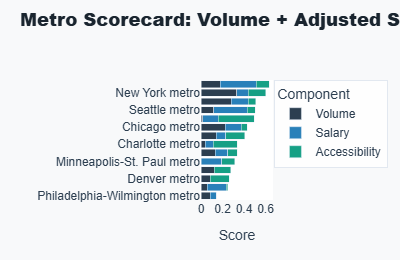
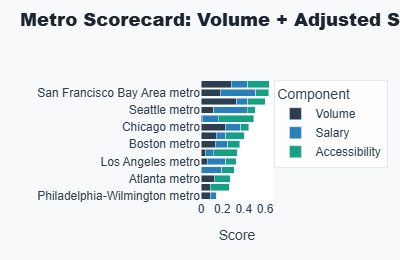
feat: refresh Metro Scorecard and Executive Summary charts from updated notebook
Regenerate charts 48_0 (Metro Scorecard: Volume + Adjusted Salary +
Accessibility) and 50_0 (Executive Summary Dashboard) from the
updated analysis notebook; both charts and their thumbnails reflect
the latest run's numbers.

diff --git a/interactive-dashboard/charts/48_0.html b/interactive-dashboard/charts/48_0.html
@@ -6,7 +6,7 @@
 </head>
 <body>
     <div style="height:630px; width:100%;">                        <script>window.PlotlyConfig = {MathJaxConfig: 'local'};</script>
-        <script charset="utf-8" src="../vendor/plotly.min.js"></script>                <div id="7b2fc753-b557-42bb-ac89-390de564c8a8" class="plotly-graph-div" style="height:100%; width:100%;"></div>            <script>                window.PLOTLYENV=window.PLOTLYENV || {};                                if (document.getElementById("7b2fc753-b557-42bb-ac89-390de564c8a8")) {                    Plotly.newPlot(                        "7b2fc753-b557-42bb-ac89-390de564c8a8",                        [{"hovertemplate":"Component=Volume\u003cbr\u003eScore=%{x}\u003cbr\u003e=%{y}\u003cextra\u003e\u003c\u002fextra\u003e","legendgroup":"Volume","marker":{"color":"#2c3e50","pattern":{"shape":""}},"name":"Volume","orientation":"h","showlegend":true,"textposition":"auto","x":{"dtype":"f8","bdata":"RNv\u002fFHsnxz9VVVVVVVXVP1E7M672ENI\u002fUVqLucJEvj90ftUytJCMPwyxWh7S58w\u002fvW8QZpxswj9\u002fhn0XAMujP+OC+rZb2MA\u002fAAAAAAAAAAB1O2bR7gHAP\u002ffn6eGmbbY\u002fJb7S\u002f5jArj\u002f35+nhpm22Pw=="},"xaxis":"x","y":["San Francisco Bay Area metro","New York metro","Washington DC metro","Seattle metro","Austin metro","Chicago metro","Dallas-Fort Worth metro","Charlotte metro","Boston metro","Minneapolis-St. Paul metro","Atlanta metro","Denver metro","Los Angeles metro","Philadelphia-Wilmington metro"],"yaxis":"y","type":"bar"},{"hovertemplate":"Component=Salary\u003cbr\u003eScore=%{x}\u003cbr\u003e=%{y}\u003cextra\u003e\u003c\u002fextra\u003e","legendgroup":"Salary","marker":{"color":"#2980b9","pattern":{"shape":""}},"name":"Salary","orientation":"h","showlegend":true,"textposition":"auto","x":{"dtype":"f8","bdata":"VVVVVVVV1T+Hni3qc766P\u002fuIwx7TCcQ\u002fGNlAf1MX1D8HOnewtN7CPzt3ouWAtcI\u002fo0VIsdBLtj+lZA1yuI2zP68KSpG8+L0\u002ftLscKzbGyD8AAAAAAAAAAOkG0YwFuzs\u002fUA1a9jMzxj+XdWG9yCSsPw=="},"xaxis":"x","y":["San Francisco Bay Area metro","New York metro","Washington DC metro","Seattle metro","Austin metro","Chicago metro","Dallas-Fort Worth metro","Charlotte metro","Boston metro","Minneapolis-St. Paul metro","Atlanta metro","Denver metro","Los Angeles metro","Philadelphia-Wilmington metro"],"yaxis":"y","type":"bar"},{"hovertemplate":"Component=Accessibility\u003cbr\u003eScore=%{x}\u003cbr\u003e=%{y}\u003cextra\u003e\u003c\u002fextra\u003e","legendgroup":"Accessibility","marker":{"color":"#16a085","pattern":{"shape":""}},"name":"Accessibility","orientation":"h","showlegend":true,"textposition":"auto","x":{"dtype":"f8","bdata":"3\u002fIt3\u002fItvz8eaJwnM9rEP9EgDdIgDbI\u002f8i3f8i3fsj9VVVVVVVXVP7\u002flW77lW64\u002foNkj24o3xj\u002fV7sXoKXfMPwdpkAZpkLY\u002f\u002feqv\u002fuqvvj8LVdaRgTrDPwdpkAZpkMY\u002fHc7hHM7hjD8AAAAAAAAAAA=="},"xaxis":"x","y":["San Francisco Bay Area metro","New York metro","Washington DC metro","Seattle metro","Austin metro","Chicago metro","Dallas-Fort Worth metro","Charlotte metro","Boston metro","Minneapolis-St. Paul metro","Atlanta metro","Denver metro","Los Angeles metro","Philadelphia-Wilmington metro"],"yaxis":"y","type":"bar"}],                        {"template":{"data":{"histogram2dcontour":[{"type":"histogram2dcontour","colorbar":{"outlinewidth":0,"ticks":""},"colorscale":[[0.0,"#0d0887"],[0.1111111111111111,"#46039f"],[0.2222222222222222,"#7201a8"],[0.3333333333333333,"#9c179e"],[0.4444444444444444,"#bd3786"],[0.5555555555555556,"#d8576b"],[0.6666666666666666,"#ed7953"],[0.7777777777777778,"#fb9f3a"],[0.8888888888888888,"#fdca26"],[1.0,"#f0f921"]]}],"choropleth":[{"type":"choropleth","colorbar":{"outlinewidth":0,"ticks":""}}],"histogram2d":[{"type":"histogram2d","colorbar":{"outlinewidth":0,"ticks":""},"colorscale":[[0.0,"#0d0887"],[0.1111111111111111,"#46039f"],[0.2222222222222222,"#7201a8"],[0.3333333333333333,"#9c179e"],[0.4444444444444444,"#bd3786"],[0.5555555555555556,"#d8576b"],[0.6666666666666666,"#ed7953"],[0.7777777777777778,"#fb9f3a"],[0.8888888888888888,"#fdca26"],[1.0,"#f0f921"]]}],"heatmap":[{"type":"heatmap","colorbar":{"outlinewidth":0,"ticks":""},"colorscale":[[0.0,"#0d0887"],[0.1111111111111111,"#46039f"],[0.2222222222222222,"#7201a8"],[0.3333333333333333,"#9c179e"],[0.4444444444444444,"#bd3786"],[0.5555555555555556,"#d8576b"],[0.6666666666666666,"#ed7953"],[0.7777777777777778,"#fb9f3a"],[0.8888888888888888,"#fdca26"],[1.0,"#f0f921"]]}],"contourcarpet":[{"type":"contourcarpet","colorbar":{"outlinewidth":0,"ticks":""}}],"contour":[{"type":"contour","colorbar":{"outlinewidth":0,"ticks":""},"colorscale":[[0.0,"#0d0887"],[0.1111111111111111,"#46039f"],[0.2222222222222222,"#7201a8"],[0.3333333333333333,"#9c179e"],[0.4444444444444444,"#bd3786"],[0.5555555555555556,"#d8576b"],[0.6666666666666666,"#ed7953"],[0.7777777777777778,"#fb9f3a"],[0.8888888888888888,"#fdca26"],[1.0,"#f0f921"]]}],"surface":[{"type":"surface","colorbar":{"outlinewidth":0,"ticks":""},"colorscale":[[0.0,"#0d0887"],[0.1111111111111111,"#46039f"],[0.2222222222222222,"#7201a8"],[0.3333333333333333,"#9c179e"],[0.4444444444444444,"#bd3786"],[0.5555555555555556,"#d8576b"],[0.6666666666666666,"#ed7953"],[0.7777777777777778,"#fb9f3a"],[0.8888888888888888,"#fdca26"],[1.0,"#f0f921"]]}],"mesh3d":[{"type":"mesh3d","colorbar":{"outlinewidth":0,"ticks":""}}],"scatter":[{"fillpattern":{"fillmode":"overlay","size":10,"solidity":0.2},"type":"scatter"}],"parcoords":[{"type":"parcoords","line":{"colorbar":{"outlinewidth":0,"ticks":""}}}],"scatterpolargl":[{"type":"scatterpolargl","marker":{"colorbar":{"outlinewidth":0,"ticks":""}}}],"bar":[{"error_x":{"color":"#2a3f5f"},"error_y":{"color":"#2a3f5f"},"marker":{"line":{"color":"#E5ECF6","width":0.5},"pattern":{"fillmode":"overlay","size":10,"solidity":0.2}},"type":"bar"}],"scattergeo":[{"type":"scattergeo","marker":{"colorbar":{"outlinewidth":0,"ticks":""}}}],"scatterpolar":[{"type":"scatterpolar","marker":{"colorbar":{"outlinewidth":0,"ticks":""}}}],"histogram":[{"marker":{"pattern":{"fillmode":"overlay","size":10,"solidity":0.2}},"type":"histogram"}],"scattergl":[{"type":"scattergl","marker":{"colorbar":{"outlinewidth":0,"ticks":""}}}],"scatter3d":[{"type":"scatter3d","line":{"colorbar":{"outlinewidth":0,"ticks":""}},"marker":{"colorbar":{"outlinewidth":0,"ticks":""}}}],"scattermap":[{"type":"scattermap","marker":{"colorbar":{"outlinewidth":0,"ticks":""}}}],"scatterternary":[{"type":"scatterternary","marker":{"colorbar":{"outlinewidth":0,"ticks":""}}}],"scattercarpet":[{"type":"scattercarpet","marker":{"colorbar":{"outlinewidth":0,"ticks":""}}}],"carpet":[{"aaxis":{"endlinecolor":"#2a3f5f","gridcolor":"white","linecolor":"white","minorgridcolor":"white","startlinecolor":"#2a3f5f"},"baxis":{"endlinecolor":"#2a3f5f","gridcolor":"white","linecolor":"white","minorgridcolor":"white","startlinecolor":"#2a3f5f"},"type":"carpet"}],"table":[{"cells":{"fill":{"color":"#EBF0F8"},"line":{"color":"white"}},"header":{"fill":{"color":"#C8D4E3"},"line":{"color":"white"}},"type":"table"}],"barpolar":[{"marker":{"line":{"color":"#E5ECF6","width":0.5},"pattern":{"fillmode":"overlay","size":10,"solidity":0.2}},"type":"barpolar"}],"pie":[{"automargin":true,"type":"pie"}]},"layout":{"autotypenumbers":"strict","colorway":["#636efa","#EF553B","#00cc96","#ab63fa","#FFA15A","#19d3f3","#FF6692","#B6E880","#FF97FF","#FECB52"],"font":{"color":"#2a3f5f"},"hovermode":"closest","hoverlabel":{"align":"left"},"paper_bgcolor":"white","plot_bgcolor":"#E5ECF6","polar":{"bgcolor":"#E5ECF6","angularaxis":{"gridcolor":"white","linecolor":"white","ticks":""},"radialaxis":{"gridcolor":"white","linecolor":"white","ticks":""}},"ternary":{"bgcolor":"#E5ECF6","aaxis":{"gridcolor":"white","linecolor":"white","ticks":""},"baxis":{"gridcolor":"white","linecolor":"white","ticks":""},"caxis":{"gridcolor":"white","linecolor":"white","ticks":""}},"coloraxis":{"colorbar":{"outlinewidth":0,"ticks":""}},"colorscale":{"sequential":[[0.0,"#0d0887"],[0.1111111111111111,"#46039f"],[0.2222222222222222,"#7201a8"],[0.3333333333333333,"#9c179e"],[0.4444444444444444,"#bd3786"],[0.5555555555555556,"#d8576b"],[0.6666666666666666,"#ed7953"],[0.7777777777777778,"#fb9f3a"],[0.8888888888888888,"#fdca26"],[1.0,"#f0f921"]],"sequentialminus":[[0.0,"#0d0887"],[0.1111111111111111,"#46039f"],[0.2222222222222222,"#7201a8"],[0.3333333333333333,"#9c179e"],[0.4444444444444444,"#bd3786"],[0.5555555555555556,"#d8576b"],[0.6666666666666666,"#ed7953"],[0.7777777777777778,"#fb9f3a"],[0.8888888888888888,"#fdca26"],[1.0,"#f0f921"]],"diverging":[[0,"#8e0152"],[0.1,"#c51b7d"],[0.2,"#de77ae"],[0.3,"#f1b6da"],[0.4,"#fde0ef"],[0.5,"#f7f7f7"],[0.6,"#e6f5d0"],[0.7,"#b8e186"],[0.8,"#7fbc41"],[0.9,"#4d9221"],[1,"#276419"]]},"xaxis":{"gridcolor":"white","linecolor":"white","ticks":"","title":{"standoff":15},"zerolinecolor":"white","automargin":true,"zerolinewidth":2},"yaxis":{"gridcolor":"white","linecolor":"white","ticks":"","title":{"standoff":15},"zerolinecolor":"white","automargin":true,"zerolinewidth":2},"scene":{"xaxis":{"backgroundcolor":"#E5ECF6","gridcolor":"white","linecolor":"white","showbackground":true,"ticks":"","zerolinecolor":"white","gridwidth":2},"yaxis":{"backgroundcolor":"#E5ECF6","gridcolor":"white","linecolor":"white","showbackground":true,"ticks":"","zerolinecolor":"white","gridwidth":2},"zaxis":{"backgroundcolor":"#E5ECF6","gridcolor":"white","linecolor":"white","showbackground":true,"ticks":"","zerolinecolor":"white","gridwidth":2}},"shapedefaults":{"line":{"color":"#2a3f5f"}},"annotationdefaults":{"arrowcolor":"#2a3f5f","arrowhead":0,"arrowwidth":1},"geo":{"bgcolor":"white","landcolor":"#E5ECF6","subunitcolor":"white","showland":true,"showlakes":true,"lakecolor":"white"},"title":{"x":0.05}}},"xaxis":{"anchor":"y","domain":[0.0,1.0],"title":{"text":"Score"}},"yaxis":{"anchor":"x","domain":[0.0,1.0],"title":{"text":""},"categoryorder":"total ascending"},"legend":{"title":{"text":"Component"},"tracegroupgap":0,"bgcolor":"rgba(255,255,255,0.8)","bordercolor":"#e2e8f0","borderwidth":1},"title":{"text":"Metro Scorecard: Volume + Adjusted Salary + Accessibility","font":{"size":18,"family":"Arial Black","color":"#1a252f"},"x":0.05,"y":0.95},"barmode":"stack","font":{"family":"Arial, sans-serif","size":12,"color":"#2c3e50"},"margin":{"l":60,"r":40,"t":80,"b":60},"paper_bgcolor":"#f8f9fa","plot_bgcolor":"#ffffff","height":630},                        {"responsive": true}                    ).then(function(){
+        <script charset="utf-8" src="../vendor/plotly.min.js"></script>                <div id="ea9ac8d9-d5cd-4ed9-ab40-63497bb9d6dc" class="plotly-graph-div" style="height:100%; width:100%;"></div>            <script>                window.PLOTLYENV=window.PLOTLYENV || {};                                if (document.getElementById("ea9ac8d9-d5cd-4ed9-ab40-63497bb9d6dc")) {                    Plotly.newPlot(                        "ea9ac8d9-d5cd-4ed9-ab40-63497bb9d6dc",                        [{"hovertemplate":"Component=Volume\u003cbr\u003eScore=%{x}\u003cbr\u003e=%{y}\u003cextra\u003e\u003c\u002fextra\u003e","legendgroup":"Volume","marker":{"color":"#2c3e50","pattern":{"shape":""}},"name":"Volume","orientation":"h","showlegend":true,"textposition":"auto","x":{"dtype":"f8","bdata":"UTszrvYQ0j9E2\u002f8UeyfHP1VVVVVVVdU\u002fUVqLucJEvj90ftUytJCMPwyxWh7S58w\u002fvW8QZpxswj\u002fjgvq2W9jAP3+GfRcAy6M\u002fJb7S\u002f5jArj8AAAAAAAAAAHU7ZtHuAcA\u002f9+fp4aZttj\u002f35+nhpm22Pw=="},"xaxis":"x","y":["Washington DC metro","San Francisco Bay Area metro","New York metro","Seattle metro","Austin metro","Chicago metro","Dallas-Fort Worth metro","Boston metro","Charlotte metro","Los Angeles metro","Minneapolis-St. Paul metro","Atlanta metro","Denver metro","Philadelphia-Wilmington metro"],"yaxis":"y","type":"bar"},{"hovertemplate":"Component=Salary\u003cbr\u003eScore=%{x}\u003cbr\u003e=%{y}\u003cextra\u003e\u003c\u002fextra\u003e","legendgroup":"Salary","marker":{"color":"#2980b9","pattern":{"shape":""}},"name":"Salary","orientation":"h","showlegend":true,"textposition":"auto","x":{"dtype":"f8","bdata":"+4jDHtMJxD9VVVVVVVXVP4eeLepzvro\u002fGNlAf1MX1D8HOnewtN7CPzt3ouWAtcI\u002fo0VIsdBLtj+vCkqRvPi9P6VkDXK4jbM\u002fUA1a9jMzxj+0uxwrNsbIPwAAAAAAAAAA6QbRjAW7Oz+XdWG9yCSsPw=="},"xaxis":"x","y":["Washington DC metro","San Francisco Bay Area metro","New York metro","Seattle metro","Austin metro","Chicago metro","Dallas-Fort Worth metro","Boston metro","Charlotte metro","Los Angeles metro","Minneapolis-St. Paul metro","Atlanta metro","Denver metro","Philadelphia-Wilmington metro"],"yaxis":"y","type":"bar"},{"hovertemplate":"Component=Accessibility\u003cbr\u003eScore=%{x}\u003cbr\u003e=%{y}\u003cextra\u003e\u003c\u002fextra\u003e","legendgroup":"Accessibility","marker":{"color":"#16a085","pattern":{"shape":""}},"name":"Accessibility","orientation":"h","showlegend":true,"textposition":"auto","x":{"dtype":"f8","bdata":"mZzJmZzJyT\u002ff8i3f8i2\u002fPx5onCcz2sQ\u002f8i3f8i3fsj9VVVVVVVXVP\u002fIt3\u002fIt37I\u002foNkj24o3xj9VVVVVVVW9P9Xuxegpd8w\u002fWZRFWZRFuT\u002f96q\u002f+6q++PwtV1pGBOsM\u002fB2mQBmmQxj8AAAAAAAAAAA=="},"xaxis":"x","y":["Washington DC metro","San Francisco Bay Area metro","New York metro","Seattle metro","Austin metro","Chicago metro","Dallas-Fort Worth metro","Boston metro","Charlotte metro","Los Angeles metro","Minneapolis-St. Paul metro","Atlanta metro","Denver metro","Philadelphia-Wilmington metro"],"yaxis":"y","type":"bar"}],                        {"template":{"data":{"histogram2dcontour":[{"type":"histogram2dcontour","colorbar":{"outlinewidth":0,"ticks":""},"colorscale":[[0.0,"#0d0887"],[0.1111111111111111,"#46039f"],[0.2222222222222222,"#7201a8"],[0.3333333333333333,"#9c179e"],[0.4444444444444444,"#bd3786"],[0.5555555555555556,"#d8576b"],[0.6666666666666666,"#ed7953"],[0.7777777777777778,"#fb9f3a"],[0.8888888888888888,"#fdca26"],[1.0,"#f0f921"]]}],"choropleth":[{"type":"choropleth","colorbar":{"outlinewidth":0,"ticks":""}}],"histogram2d":[{"type":"histogram2d","colorbar":{"outlinewidth":0,"ticks":""},"colorscale":[[0.0,"#0d0887"],[0.1111111111111111,"#46039f"],[0.2222222222222222,"#7201a8"],[0.3333333333333333,"#9c179e"],[0.4444444444444444,"#bd3786"],[0.5555555555555556,"#d8576b"],[0.6666666666666666,"#ed7953"],[0.7777777777777778,"#fb9f3a"],[0.8888888888888888,"#fdca26"],[1.0,"#f0f921"]]}],"heatmap":[{"type":"heatmap","colorbar":{"outlinewidth":0,"ticks":""},"colorscale":[[0.0,"#0d0887"],[0.1111111111111111,"#46039f"],[0.2222222222222222,"#7201a8"],[0.3333333333333333,"#9c179e"],[0.4444444444444444,"#bd3786"],[0.5555555555555556,"#d8576b"],[0.6666666666666666,"#ed7953"],[0.7777777777777778,"#fb9f3a"],[0.8888888888888888,"#fdca26"],[1.0,"#f0f921"]]}],"contourcarpet":[{"type":"contourcarpet","colorbar":{"outlinewidth":0,"ticks":""}}],"contour":[{"type":"contour","colorbar":{"outlinewidth":0,"ticks":""},"colorscale":[[0.0,"#0d0887"],[0.1111111111111111,"#46039f"],[0.2222222222222222,"#7201a8"],[0.3333333333333333,"#9c179e"],[0.4444444444444444,"#bd3786"],[0.5555555555555556,"#d8576b"],[0.6666666666666666,"#ed7953"],[0.7777777777777778,"#fb9f3a"],[0.8888888888888888,"#fdca26"],[1.0,"#f0f921"]]}],"surface":[{"type":"surface","colorbar":{"outlinewidth":0,"ticks":""},"colorscale":[[0.0,"#0d0887"],[0.1111111111111111,"#46039f"],[0.2222222222222222,"#7201a8"],[0.3333333333333333,"#9c179e"],[0.4444444444444444,"#bd3786"],[0.5555555555555556,"#d8576b"],[0.6666666666666666,"#ed7953"],[0.7777777777777778,"#fb9f3a"],[0.8888888888888888,"#fdca26"],[1.0,"#f0f921"]]}],"mesh3d":[{"type":"mesh3d","colorbar":{"outlinewidth":0,"ticks":""}}],"scatter":[{"fillpattern":{"fillmode":"overlay","size":10,"solidity":0.2},"type":"scatter"}],"parcoords":[{"type":"parcoords","line":{"colorbar":{"outlinewidth":0,"ticks":""}}}],"scatterpolargl":[{"type":"scatterpolargl","marker":{"colorbar":{"outlinewidth":0,"ticks":""}}}],"bar":[{"error_x":{"color":"#2a3f5f"},"error_y":{"color":"#2a3f5f"},"marker":{"line":{"color":"#E5ECF6","width":0.5},"pattern":{"fillmode":"overlay","size":10,"solidity":0.2}},"type":"bar"}],"scattergeo":[{"type":"scattergeo","marker":{"colorbar":{"outlinewidth":0,"ticks":""}}}],"scatterpolar":[{"type":"scatterpolar","marker":{"colorbar":{"outlinewidth":0,"ticks":""}}}],"histogram":[{"marker":{"pattern":{"fillmode":"overlay","size":10,"solidity":0.2}},"type":"histogram"}],"scattergl":[{"type":"scattergl","marker":{"colorbar":{"outlinewidth":0,"ticks":""}}}],"scatter3d":[{"type":"scatter3d","line":{"colorbar":{"outlinewidth":0,"ticks":""}},"marker":{"colorbar":{"outlinewidth":0,"ticks":""}}}],"scattermap":[{"type":"scattermap","marker":{"colorbar":{"outlinewidth":0,"ticks":""}}}],"scatterternary":[{"type":"scatterternary","marker":{"colorbar":{"outlinewidth":0,"ticks":""}}}],"scattercarpet":[{"type":"scattercarpet","marker":{"colorbar":{"outlinewidth":0,"ticks":""}}}],"carpet":[{"aaxis":{"endlinecolor":"#2a3f5f","gridcolor":"white","linecolor":"white","minorgridcolor":"white","startlinecolor":"#2a3f5f"},"baxis":{"endlinecolor":"#2a3f5f","gridcolor":"white","linecolor":"white","minorgridcolor":"white","startlinecolor":"#2a3f5f"},"type":"carpet"}],"table":[{"cells":{"fill":{"color":"#EBF0F8"},"line":{"color":"white"}},"header":{"fill":{"color":"#C8D4E3"},"line":{"color":"white"}},"type":"table"}],"barpolar":[{"marker":{"line":{"color":"#E5ECF6","width":0.5},"pattern":{"fillmode":"overlay","size":10,"solidity":0.2}},"type":"barpolar"}],"pie":[{"automargin":true,"type":"pie"}]},"layout":{"autotypenumbers":"strict","colorway":["#636efa","#EF553B","#00cc96","#ab63fa","#FFA15A","#19d3f3","#FF6692","#B6E880","#FF97FF","#FECB52"],"font":{"color":"#2a3f5f"},"hovermode":"closest","hoverlabel":{"align":"left"},"paper_bgcolor":"white","plot_bgcolor":"#E5ECF6","polar":{"bgcolor":"#E5ECF6","angularaxis":{"gridcolor":"white","linecolor":"white","ticks":""},"radialaxis":{"gridcolor":"white","linecolor":"white","ticks":""}},"ternary":{"bgcolor":"#E5ECF6","aaxis":{"gridcolor":"white","linecolor":"white","ticks":""},"baxis":{"gridcolor":"white","linecolor":"white","ticks":""},"caxis":{"gridcolor":"white","linecolor":"white","ticks":""}},"coloraxis":{"colorbar":{"outlinewidth":0,"ticks":""}},"colorscale":{"sequential":[[0.0,"#0d0887"],[0.1111111111111111,"#46039f"],[0.2222222222222222,"#7201a8"],[0.3333333333333333,"#9c179e"],[0.4444444444444444,"#bd3786"],[0.5555555555555556,"#d8576b"],[0.6666666666666666,"#ed7953"],[0.7777777777777778,"#fb9f3a"],[0.8888888888888888,"#fdca26"],[1.0,"#f0f921"]],"sequentialminus":[[0.0,"#0d0887"],[0.1111111111111111,"#46039f"],[0.2222222222222222,"#7201a8"],[0.3333333333333333,"#9c179e"],[0.4444444444444444,"#bd3786"],[0.5555555555555556,"#d8576b"],[0.6666666666666666,"#ed7953"],[0.7777777777777778,"#fb9f3a"],[0.8888888888888888,"#fdca26"],[1.0,"#f0f921"]],"diverging":[[0,"#8e0152"],[0.1,"#c51b7d"],[0.2,"#de77ae"],[0.3,"#f1b6da"],[0.4,"#fde0ef"],[0.5,"#f7f7f7"],[0.6,"#e6f5d0"],[0.7,"#b8e186"],[0.8,"#7fbc41"],[0.9,"#4d9221"],[1,"#276419"]]},"xaxis":{"gridcolor":"white","linecolor":"white","ticks":"","title":{"standoff":15},"zerolinecolor":"white","automargin":true,"zerolinewidth":2},"yaxis":{"gridcolor":"white","linecolor":"white","ticks":"","title":{"standoff":15},"zerolinecolor":"white","automargin":true,"zerolinewidth":2},"scene":{"xaxis":{"backgroundcolor":"#E5ECF6","gridcolor":"white","linecolor":"white","showbackground":true,"ticks":"","zerolinecolor":"white","gridwidth":2},"yaxis":{"backgroundcolor":"#E5ECF6","gridcolor":"white","linecolor":"white","showbackground":true,"ticks":"","zerolinecolor":"white","gridwidth":2},"zaxis":{"backgroundcolor":"#E5ECF6","gridcolor":"white","linecolor":"white","showbackground":true,"ticks":"","zerolinecolor":"white","gridwidth":2}},"shapedefaults":{"line":{"color":"#2a3f5f"}},"annotationdefaults":{"arrowcolor":"#2a3f5f","arrowhead":0,"arrowwidth":1},"geo":{"bgcolor":"white","landcolor":"#E5ECF6","subunitcolor":"white","showland":true,"showlakes":true,"lakecolor":"white"},"title":{"x":0.05}}},"xaxis":{"anchor":"y","domain":[0.0,1.0],"title":{"text":"Score"}},"yaxis":{"anchor":"x","domain":[0.0,1.0],"title":{"text":""},"categoryorder":"total ascending"},"legend":{"title":{"text":"Component"},"tracegroupgap":0,"bgcolor":"rgba(255,255,255,0.8)","bordercolor":"#e2e8f0","borderwidth":1},"title":{"text":"Metro Scorecard: Volume + Adjusted Salary + Accessibility","font":{"size":18,"family":"Arial Black","color":"#1a252f"},"x":0.05,"y":0.95},"barmode":"stack","font":{"family":"Arial, sans-serif","size":12,"color":"#2c3e50"},"margin":{"l":60,"r":40,"t":80,"b":60},"paper_bgcolor":"#f8f9fa","plot_bgcolor":"#ffffff","height":630},                        {"responsive": true}                    ).then(function(){
                             document.addEventListener('keydown', function(e) {  if (e.key === 'ArrowRight' || e.key === 'ArrowLeft' || e.key === 'Escape') {    parent.postMessage({type: 'presenter-key', key: e.key}, '*');  }});
                         })                };            </script>        </div>
 </body>

diff --git a/interactive-dashboard/charts/50_0.html b/interactive-dashboard/charts/50_0.html
@@ -6,7 +6,7 @@
 </head>
 <body>
     <div style="height:600px; width:100%;">                        <script>window.PlotlyConfig = {MathJaxConfig: 'local'};</script>
-        <script charset="utf-8" src="../vendor/plotly.min.js"></script>                <div id="ccbe76d6-7482-4df8-87b1-71e7d45fa412" class="plotly-graph-div" style="height:100%; width:100%;"></div>            <script>                window.PLOTLYENV=window.PLOTLYENV || {};                                if (document.getElementById("ccbe76d6-7482-4df8-87b1-71e7d45fa412")) {                    Plotly.newPlot(                        "ccbe76d6-7482-4df8-87b1-71e7d45fa412",                        [{"mode":"number","title":{"text":"Postings Analyzed"},"value":753,"type":"indicator","domain":{"x":[0.0,0.45],"y":[0.575,1.0]}},{"mode":"number","number":{"suffix":"%","valueformat":".0f"},"title":{"text":"Entry-Accessible"},"value":37.45019920318725,"type":"indicator","domain":{"x":[0.55,1.0],"y":[0.575,1.0]}},{"mode":"number","number":{"prefix":"$","valueformat":",.0f"},"title":{"text":"Median Salary"},"value":117500.0,"type":"indicator","domain":{"x":[0.0,0.45],"y":[0.0,0.425]}},{"mode":"number","number":{"prefix":"$","valueformat":",.0f"},"title":{"text":"#1 Metro Adj. Salary (San Francisco Bay Area)"},"value":166636.56069364163,"type":"indicator","domain":{"x":[0.55,1.0],"y":[0.0,0.425]}}],                        {"template":{"data":{"histogram2dcontour":[{"type":"histogram2dcontour","colorbar":{"outlinewidth":0,"ticks":""},"colorscale":[[0.0,"#0d0887"],[0.1111111111111111,"#46039f"],[0.2222222222222222,"#7201a8"],[0.3333333333333333,"#9c179e"],[0.4444444444444444,"#bd3786"],[0.5555555555555556,"#d8576b"],[0.6666666666666666,"#ed7953"],[0.7777777777777778,"#fb9f3a"],[0.8888888888888888,"#fdca26"],[1.0,"#f0f921"]]}],"choropleth":[{"type":"choropleth","colorbar":{"outlinewidth":0,"ticks":""}}],"histogram2d":[{"type":"histogram2d","colorbar":{"outlinewidth":0,"ticks":""},"colorscale":[[0.0,"#0d0887"],[0.1111111111111111,"#46039f"],[0.2222222222222222,"#7201a8"],[0.3333333333333333,"#9c179e"],[0.4444444444444444,"#bd3786"],[0.5555555555555556,"#d8576b"],[0.6666666666666666,"#ed7953"],[0.7777777777777778,"#fb9f3a"],[0.8888888888888888,"#fdca26"],[1.0,"#f0f921"]]}],"heatmap":[{"type":"heatmap","colorbar":{"outlinewidth":0,"ticks":""},"colorscale":[[0.0,"#0d0887"],[0.1111111111111111,"#46039f"],[0.2222222222222222,"#7201a8"],[0.3333333333333333,"#9c179e"],[0.4444444444444444,"#bd3786"],[0.5555555555555556,"#d8576b"],[0.6666666666666666,"#ed7953"],[0.7777777777777778,"#fb9f3a"],[0.8888888888888888,"#fdca26"],[1.0,"#f0f921"]]}],"contourcarpet":[{"type":"contourcarpet","colorbar":{"outlinewidth":0,"ticks":""}}],"contour":[{"type":"contour","colorbar":{"outlinewidth":0,"ticks":""},"colorscale":[[0.0,"#0d0887"],[0.1111111111111111,"#46039f"],[0.2222222222222222,"#7201a8"],[0.3333333333333333,"#9c179e"],[0.4444444444444444,"#bd3786"],[0.5555555555555556,"#d8576b"],[0.6666666666666666,"#ed7953"],[0.7777777777777778,"#fb9f3a"],[0.8888888888888888,"#fdca26"],[1.0,"#f0f921"]]}],"surface":[{"type":"surface","colorbar":{"outlinewidth":0,"ticks":""},"colorscale":[[0.0,"#0d0887"],[0.1111111111111111,"#46039f"],[0.2222222222222222,"#7201a8"],[0.3333333333333333,"#9c179e"],[0.4444444444444444,"#bd3786"],[0.5555555555555556,"#d8576b"],[0.6666666666666666,"#ed7953"],[0.7777777777777778,"#fb9f3a"],[0.8888888888888888,"#fdca26"],[1.0,"#f0f921"]]}],"mesh3d":[{"type":"mesh3d","colorbar":{"outlinewidth":0,"ticks":""}}],"scatter":[{"fillpattern":{"fillmode":"overlay","size":10,"solidity":0.2},"type":"scatter"}],"parcoords":[{"type":"parcoords","line":{"colorbar":{"outlinewidth":0,"ticks":""}}}],"scatterpolargl":[{"type":"scatterpolargl","marker":{"colorbar":{"outlinewidth":0,"ticks":""}}}],"bar":[{"error_x":{"color":"#2a3f5f"},"error_y":{"color":"#2a3f5f"},"marker":{"line":{"color":"#E5ECF6","width":0.5},"pattern":{"fillmode":"overlay","size":10,"solidity":0.2}},"type":"bar"}],"scattergeo":[{"type":"scattergeo","marker":{"colorbar":{"outlinewidth":0,"ticks":""}}}],"scatterpolar":[{"type":"scatterpolar","marker":{"colorbar":{"outlinewidth":0,"ticks":""}}}],"histogram":[{"marker":{"pattern":{"fillmode":"overlay","size":10,"solidity":0.2}},"type":"histogram"}],"scattergl":[{"type":"scattergl","marker":{"colorbar":{"outlinewidth":0,"ticks":""}}}],"scatter3d":[{"type":"scatter3d","line":{"colorbar":{"outlinewidth":0,"ticks":""}},"marker":{"colorbar":{"outlinewidth":0,"ticks":""}}}],"scattermap":[{"type":"scattermap","marker":{"colorbar":{"outlinewidth":0,"ticks":""}}}],"scatterternary":[{"type":"scatterternary","marker":{"colorbar":{"outlinewidth":0,"ticks":""}}}],"scattercarpet":[{"type":"scattercarpet","marker":{"colorbar":{"outlinewidth":0,"ticks":""}}}],"carpet":[{"aaxis":{"endlinecolor":"#2a3f5f","gridcolor":"white","linecolor":"white","minorgridcolor":"white","startlinecolor":"#2a3f5f"},"baxis":{"endlinecolor":"#2a3f5f","gridcolor":"white","linecolor":"white","minorgridcolor":"white","startlinecolor":"#2a3f5f"},"type":"carpet"}],"table":[{"cells":{"fill":{"color":"#EBF0F8"},"line":{"color":"white"}},"header":{"fill":{"color":"#C8D4E3"},"line":{"color":"white"}},"type":"table"}],"barpolar":[{"marker":{"line":{"color":"#E5ECF6","width":0.5},"pattern":{"fillmode":"overlay","size":10,"solidity":0.2}},"type":"barpolar"}],"pie":[{"automargin":true,"type":"pie"}]},"layout":{"autotypenumbers":"strict","colorway":["#636efa","#EF553B","#00cc96","#ab63fa","#FFA15A","#19d3f3","#FF6692","#B6E880","#FF97FF","#FECB52"],"font":{"color":"#2a3f5f"},"hovermode":"closest","hoverlabel":{"align":"left"},"paper_bgcolor":"white","plot_bgcolor":"#E5ECF6","polar":{"bgcolor":"#E5ECF6","angularaxis":{"gridcolor":"white","linecolor":"white","ticks":""},"radialaxis":{"gridcolor":"white","linecolor":"white","ticks":""}},"ternary":{"bgcolor":"#E5ECF6","aaxis":{"gridcolor":"white","linecolor":"white","ticks":""},"baxis":{"gridcolor":"white","linecolor":"white","ticks":""},"caxis":{"gridcolor":"white","linecolor":"white","ticks":""}},"coloraxis":{"colorbar":{"outlinewidth":0,"ticks":""}},"colorscale":{"sequential":[[0.0,"#0d0887"],[0.1111111111111111,"#46039f"],[0.2222222222222222,"#7201a8"],[0.3333333333333333,"#9c179e"],[0.4444444444444444,"#bd3786"],[0.5555555555555556,"#d8576b"],[0.6666666666666666,"#ed7953"],[0.7777777777777778,"#fb9f3a"],[0.8888888888888888,"#fdca26"],[1.0,"#f0f921"]],"sequentialminus":[[0.0,"#0d0887"],[0.1111111111111111,"#46039f"],[0.2222222222222222,"#7201a8"],[0.3333333333333333,"#9c179e"],[0.4444444444444444,"#bd3786"],[0.5555555555555556,"#d8576b"],[0.6666666666666666,"#ed7953"],[0.7777777777777778,"#fb9f3a"],[0.8888888888888888,"#fdca26"],[1.0,"#f0f921"]],"diverging":[[0,"#8e0152"],[0.1,"#c51b7d"],[0.2,"#de77ae"],[0.3,"#f1b6da"],[0.4,"#fde0ef"],[0.5,"#f7f7f7"],[0.6,"#e6f5d0"],[0.7,"#b8e186"],[0.8,"#7fbc41"],[0.9,"#4d9221"],[1,"#276419"]]},"xaxis":{"gridcolor":"white","linecolor":"white","ticks":"","title":{"standoff":15},"zerolinecolor":"white","automargin":true,"zerolinewidth":2},"yaxis":{"gridcolor":"white","linecolor":"white","ticks":"","title":{"standoff":15},"zerolinecolor":"white","automargin":true,"zerolinewidth":2},"scene":{"xaxis":{"backgroundcolor":"#E5ECF6","gridcolor":"white","linecolor":"white","showbackground":true,"ticks":"","zerolinecolor":"white","gridwidth":2},"yaxis":{"backgroundcolor":"#E5ECF6","gridcolor":"white","linecolor":"white","showbackground":true,"ticks":"","zerolinecolor":"white","gridwidth":2},"zaxis":{"backgroundcolor":"#E5ECF6","gridcolor":"white","linecolor":"white","showbackground":true,"ticks":"","zerolinecolor":"white","gridwidth":2}},"shapedefaults":{"line":{"color":"#2a3f5f"}},"annotationdefaults":{"arrowcolor":"#2a3f5f","arrowhead":0,"arrowwidth":1},"geo":{"bgcolor":"white","landcolor":"#E5ECF6","subunitcolor":"white","showland":true,"showlakes":true,"lakecolor":"white"},"title":{"x":0.05}}},"font":{"family":"Arial, sans-serif","size":12,"color":"#2c3e50"},"title":{"font":{"size":18,"family":"Arial Black","color":"#1a252f"},"x":0.05,"y":0.95,"text":"Executive Summary Dashboard"},"margin":{"l":60,"r":40,"t":80,"b":60},"legend":{"bgcolor":"rgba(255,255,255,0.8)","bordercolor":"#e2e8f0","borderwidth":1},"paper_bgcolor":"#f8f9fa","plot_bgcolor":"#ffffff","height":600},                        {"responsive": true}                    ).then(function(){
+        <script charset="utf-8" src="../vendor/plotly.min.js"></script>                <div id="427c172f-ce16-494a-85c2-2557476ab590" class="plotly-graph-div" style="height:100%; width:100%;"></div>            <script>                window.PLOTLYENV=window.PLOTLYENV || {};                                if (document.getElementById("427c172f-ce16-494a-85c2-2557476ab590")) {                    Plotly.newPlot(                        "427c172f-ce16-494a-85c2-2557476ab590",                        [{"mode":"number","title":{"text":"Postings Analyzed"},"value":753,"type":"indicator","domain":{"x":[0.0,0.45],"y":[0.575,1.0]}},{"mode":"number","number":{"suffix":"%","valueformat":".0f"},"title":{"text":"Entry-Accessible"},"value":37.45019920318725,"type":"indicator","domain":{"x":[0.55,1.0],"y":[0.575,1.0]}},{"mode":"number","number":{"prefix":"$","valueformat":",.0f"},"title":{"text":"Median Salary"},"value":117500.0,"type":"indicator","domain":{"x":[0.0,0.45],"y":[0.0,0.425]}},{"mode":"number","number":{"prefix":"$","valueformat":",.0f"},"title":{"text":"#1 Metro Adj. Salary (Washington DC)"},"value":124525.24133565438,"type":"indicator","domain":{"x":[0.55,1.0],"y":[0.0,0.425]}}],                        {"template":{"data":{"histogram2dcontour":[{"type":"histogram2dcontour","colorbar":{"outlinewidth":0,"ticks":""},"colorscale":[[0.0,"#0d0887"],[0.1111111111111111,"#46039f"],[0.2222222222222222,"#7201a8"],[0.3333333333333333,"#9c179e"],[0.4444444444444444,"#bd3786"],[0.5555555555555556,"#d8576b"],[0.6666666666666666,"#ed7953"],[0.7777777777777778,"#fb9f3a"],[0.8888888888888888,"#fdca26"],[1.0,"#f0f921"]]}],"choropleth":[{"type":"choropleth","colorbar":{"outlinewidth":0,"ticks":""}}],"histogram2d":[{"type":"histogram2d","colorbar":{"outlinewidth":0,"ticks":""},"colorscale":[[0.0,"#0d0887"],[0.1111111111111111,"#46039f"],[0.2222222222222222,"#7201a8"],[0.3333333333333333,"#9c179e"],[0.4444444444444444,"#bd3786"],[0.5555555555555556,"#d8576b"],[0.6666666666666666,"#ed7953"],[0.7777777777777778,"#fb9f3a"],[0.8888888888888888,"#fdca26"],[1.0,"#f0f921"]]}],"heatmap":[{"type":"heatmap","colorbar":{"outlinewidth":0,"ticks":""},"colorscale":[[0.0,"#0d0887"],[0.1111111111111111,"#46039f"],[0.2222222222222222,"#7201a8"],[0.3333333333333333,"#9c179e"],[0.4444444444444444,"#bd3786"],[0.5555555555555556,"#d8576b"],[0.6666666666666666,"#ed7953"],[0.7777777777777778,"#fb9f3a"],[0.8888888888888888,"#fdca26"],[1.0,"#f0f921"]]}],"contourcarpet":[{"type":"contourcarpet","colorbar":{"outlinewidth":0,"ticks":""}}],"contour":[{"type":"contour","colorbar":{"outlinewidth":0,"ticks":""},"colorscale":[[0.0,"#0d0887"],[0.1111111111111111,"#46039f"],[0.2222222222222222,"#7201a8"],[0.3333333333333333,"#9c179e"],[0.4444444444444444,"#bd3786"],[0.5555555555555556,"#d8576b"],[0.6666666666666666,"#ed7953"],[0.7777777777777778,"#fb9f3a"],[0.8888888888888888,"#fdca26"],[1.0,"#f0f921"]]}],"surface":[{"type":"surface","colorbar":{"outlinewidth":0,"ticks":""},"colorscale":[[0.0,"#0d0887"],[0.1111111111111111,"#46039f"],[0.2222222222222222,"#7201a8"],[0.3333333333333333,"#9c179e"],[0.4444444444444444,"#bd3786"],[0.5555555555555556,"#d8576b"],[0.6666666666666666,"#ed7953"],[0.7777777777777778,"#fb9f3a"],[0.8888888888888888,"#fdca26"],[1.0,"#f0f921"]]}],"mesh3d":[{"type":"mesh3d","colorbar":{"outlinewidth":0,"ticks":""}}],"scatter":[{"fillpattern":{"fillmode":"overlay","size":10,"solidity":0.2},"type":"scatter"}],"parcoords":[{"type":"parcoords","line":{"colorbar":{"outlinewidth":0,"ticks":""}}}],"scatterpolargl":[{"type":"scatterpolargl","marker":{"colorbar":{"outlinewidth":0,"ticks":""}}}],"bar":[{"error_x":{"color":"#2a3f5f"},"error_y":{"color":"#2a3f5f"},"marker":{"line":{"color":"#E5ECF6","width":0.5},"pattern":{"fillmode":"overlay","size":10,"solidity":0.2}},"type":"bar"}],"scattergeo":[{"type":"scattergeo","marker":{"colorbar":{"outlinewidth":0,"ticks":""}}}],"scatterpolar":[{"type":"scatterpolar","marker":{"colorbar":{"outlinewidth":0,"ticks":""}}}],"histogram":[{"marker":{"pattern":{"fillmode":"overlay","size":10,"solidity":0.2}},"type":"histogram"}],"scattergl":[{"type":"scattergl","marker":{"colorbar":{"outlinewidth":0,"ticks":""}}}],"scatter3d":[{"type":"scatter3d","line":{"colorbar":{"outlinewidth":0,"ticks":""}},"marker":{"colorbar":{"outlinewidth":0,"ticks":""}}}],"scattermap":[{"type":"scattermap","marker":{"colorbar":{"outlinewidth":0,"ticks":""}}}],"scatterternary":[{"type":"scatterternary","marker":{"colorbar":{"outlinewidth":0,"ticks":""}}}],"scattercarpet":[{"type":"scattercarpet","marker":{"colorbar":{"outlinewidth":0,"ticks":""}}}],"carpet":[{"aaxis":{"endlinecolor":"#2a3f5f","gridcolor":"white","linecolor":"white","minorgridcolor":"white","startlinecolor":"#2a3f5f"},"baxis":{"endlinecolor":"#2a3f5f","gridcolor":"white","linecolor":"white","minorgridcolor":"white","startlinecolor":"#2a3f5f"},"type":"carpet"}],"table":[{"cells":{"fill":{"color":"#EBF0F8"},"line":{"color":"white"}},"header":{"fill":{"color":"#C8D4E3"},"line":{"color":"white"}},"type":"table"}],"barpolar":[{"marker":{"line":{"color":"#E5ECF6","width":0.5},"pattern":{"fillmode":"overlay","size":10,"solidity":0.2}},"type":"barpolar"}],"pie":[{"automargin":true,"type":"pie"}]},"layout":{"autotypenumbers":"strict","colorway":["#636efa","#EF553B","#00cc96","#ab63fa","#FFA15A","#19d3f3","#FF6692","#B6E880","#FF97FF","#FECB52"],"font":{"color":"#2a3f5f"},"hovermode":"closest","hoverlabel":{"align":"left"},"paper_bgcolor":"white","plot_bgcolor":"#E5ECF6","polar":{"bgcolor":"#E5ECF6","angularaxis":{"gridcolor":"white","linecolor":"white","ticks":""},"radialaxis":{"gridcolor":"white","linecolor":"white","ticks":""}},"ternary":{"bgcolor":"#E5ECF6","aaxis":{"gridcolor":"white","linecolor":"white","ticks":""},"baxis":{"gridcolor":"white","linecolor":"white","ticks":""},"caxis":{"gridcolor":"white","linecolor":"white","ticks":""}},"coloraxis":{"colorbar":{"outlinewidth":0,"ticks":""}},"colorscale":{"sequential":[[0.0,"#0d0887"],[0.1111111111111111,"#46039f"],[0.2222222222222222,"#7201a8"],[0.3333333333333333,"#9c179e"],[0.4444444444444444,"#bd3786"],[0.5555555555555556,"#d8576b"],[0.6666666666666666,"#ed7953"],[0.7777777777777778,"#fb9f3a"],[0.8888888888888888,"#fdca26"],[1.0,"#f0f921"]],"sequentialminus":[[0.0,"#0d0887"],[0.1111111111111111,"#46039f"],[0.2222222222222222,"#7201a8"],[0.3333333333333333,"#9c179e"],[0.4444444444444444,"#bd3786"],[0.5555555555555556,"#d8576b"],[0.6666666666666666,"#ed7953"],[0.7777777777777778,"#fb9f3a"],[0.8888888888888888,"#fdca26"],[1.0,"#f0f921"]],"diverging":[[0,"#8e0152"],[0.1,"#c51b7d"],[0.2,"#de77ae"],[0.3,"#f1b6da"],[0.4,"#fde0ef"],[0.5,"#f7f7f7"],[0.6,"#e6f5d0"],[0.7,"#b8e186"],[0.8,"#7fbc41"],[0.9,"#4d9221"],[1,"#276419"]]},"xaxis":{"gridcolor":"white","linecolor":"white","ticks":"","title":{"standoff":15},"zerolinecolor":"white","automargin":true,"zerolinewidth":2},"yaxis":{"gridcolor":"white","linecolor":"white","ticks":"","title":{"standoff":15},"zerolinecolor":"white","automargin":true,"zerolinewidth":2},"scene":{"xaxis":{"backgroundcolor":"#E5ECF6","gridcolor":"white","linecolor":"white","showbackground":true,"ticks":"","zerolinecolor":"white","gridwidth":2},"yaxis":{"backgroundcolor":"#E5ECF6","gridcolor":"white","linecolor":"white","showbackground":true,"ticks":"","zerolinecolor":"white","gridwidth":2},"zaxis":{"backgroundcolor":"#E5ECF6","gridcolor":"white","linecolor":"white","showbackground":true,"ticks":"","zerolinecolor":"white","gridwidth":2}},"shapedefaults":{"line":{"color":"#2a3f5f"}},"annotationdefaults":{"arrowcolor":"#2a3f5f","arrowhead":0,"arrowwidth":1},"geo":{"bgcolor":"white","landcolor":"#E5ECF6","subunitcolor":"white","showland":true,"showlakes":true,"lakecolor":"white"},"title":{"x":0.05}}},"font":{"family":"Arial, sans-serif","size":12,"color":"#2c3e50"},"title":{"font":{"size":18,"family":"Arial Black","color":"#1a252f"},"x":0.05,"y":0.95,"text":"Executive Summary Dashboard"},"margin":{"l":60,"r":40,"t":80,"b":60},"legend":{"bgcolor":"rgba(255,255,255,0.8)","bordercolor":"#e2e8f0","borderwidth":1},"paper_bgcolor":"#f8f9fa","plot_bgcolor":"#ffffff","height":600},                        {"responsive": true}                    ).then(function(){
                             document.addEventListener('keydown', function(e) {  if (e.key === 'ArrowRight' || e.key === 'ArrowLeft' || e.key === 'Escape') {    parent.postMessage({type: 'presenter-key', key: e.key}, '*');  }});
                         })                };            </script>        </div>
 </body>
